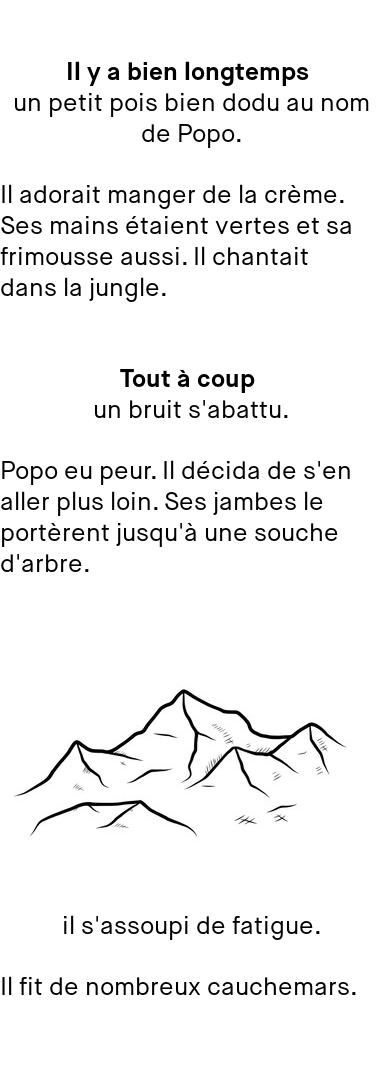
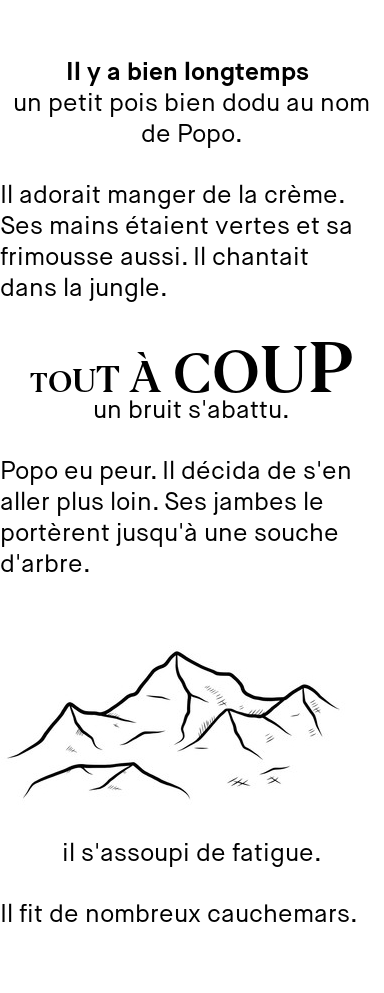
feat(story) : add img and increase custom words

diff --git a/storydesign.py b/storydesign.py
@@ -35,8 +35,10 @@ class StoryDesign():
         ]
         
         # fonts
+        editor_bold = 'assets/fonts/Editor/Editor-Bold.ttf'
         maison_neue_book = 'assets/fonts/Maison-Neue/Maison Neue Book.otf'
         maison_neue_bold = 'assets/fonts/Maison-Neue/Maison Neue Bold.otf'
+        
         text_maison_neue_book = ImageFont.truetype(maison_neue_book, self.font_size, encoding="unic")
         text_maison_neue_bold = ImageFont.truetype(maison_neue_bold, self.font_size, encoding="unic")
         text_end_maison_neue_bold = ImageFont.truetype(maison_neue_bold, 100, encoding="unic")
@@ -62,8 +64,7 @@ class StoryDesign():
                     
                     # get the images height for drawImage
                     if start_sentence == "Quelques heures plus tard":
-                        mountains_img = Image.open("assets/img/mountains.jpg")
-                        img_width, img_height = mountains_img.size
+                        img_height = self.add_image("assets/img/mountains.jpg", False)
                         images_height += img_height
                         
                     #rest of the sentence
@@ -113,16 +114,25 @@ class StoryDesign():
                     
                     # add images
                     if start_sentence.find(","): start_sentence = start_sentence[0:len(start_sentence) - 1] #suctract ,
-                    if start_sentence == "Quelques heures plus tard":
-                        custom_img = Image.open("assets/img/mountains.jpg")
-                        img.paste(custom_img, (0, top))
-                        img_width, img_height = custom_img.size
-                        top += img_height    
+                    if start_sentence == "Tout à coup":
+                        
+                        # fonction to increase text in uppercase
+                        custom_width = self.increase_font(context, start_sentence, editor_bold, 25, top)
+                        center_left = (self.width - custom_width) / 2;
+                        self.increase_font(context, start_sentence, editor_bold, 25, top, center_left)
+                        
+                    elif start_sentence == "Quelques heures plus tard":
+                        
+                        # create fonction to load img
+                        img_height = self.add_image("assets/img/mountains.jpg", True, top, img)
+                        top += img_height
+                        
                     else :
                         context.text((center_left,top), start_sentence, fill=self.text_color, font=text_maison_neue_bold)
                     top += spacing
                     
-                    end_sentence = story_part[end + 1:len(story_part)].strip() # the rest of the sentence
+                    # the rest of the sentence
+                    end_sentence = story_part[end + 1:len(story_part)].strip()
                     
                     
                     # get the first sentence
@@ -149,3 +159,31 @@ class StoryDesign():
         
         del context # destroy drawing context
         img.save(self.filename + self.fileformat, "PNG")
+        
+    
+    def increase_font(self, context, custom_word, font, font_size, top, left = 0):
+        
+        custom_word = custom_word.upper()
+        word_letters = list(custom_word)
+        increase_top = top
+        center_left = left
+        for letter in word_letters:
+            text_font = ImageFont.truetype(font, font_size, encoding="unic")
+            letter_width, letter_height = text_font.getsize(letter) # redo after uppercase center text
+            if center_left != 0: # draw only if left is not null
+                context.text((left,increase_top), letter, fill=self.text_color, font=text_font)
+            left += letter_width
+            increase_top -= int(round(font_size * .1))
+            font_size += int(round(font_size * .1))
+            
+        return left #return the width
+    
+    
+    
+    def add_image(self, url, add, top = 0, img_bg = False):
+        custom_img = Image.open(url)
+        if add == True : img_bg.paste(custom_img, (0, top))
+        img_width, img_height = custom_img.size
+        
+        return img_height
+     
